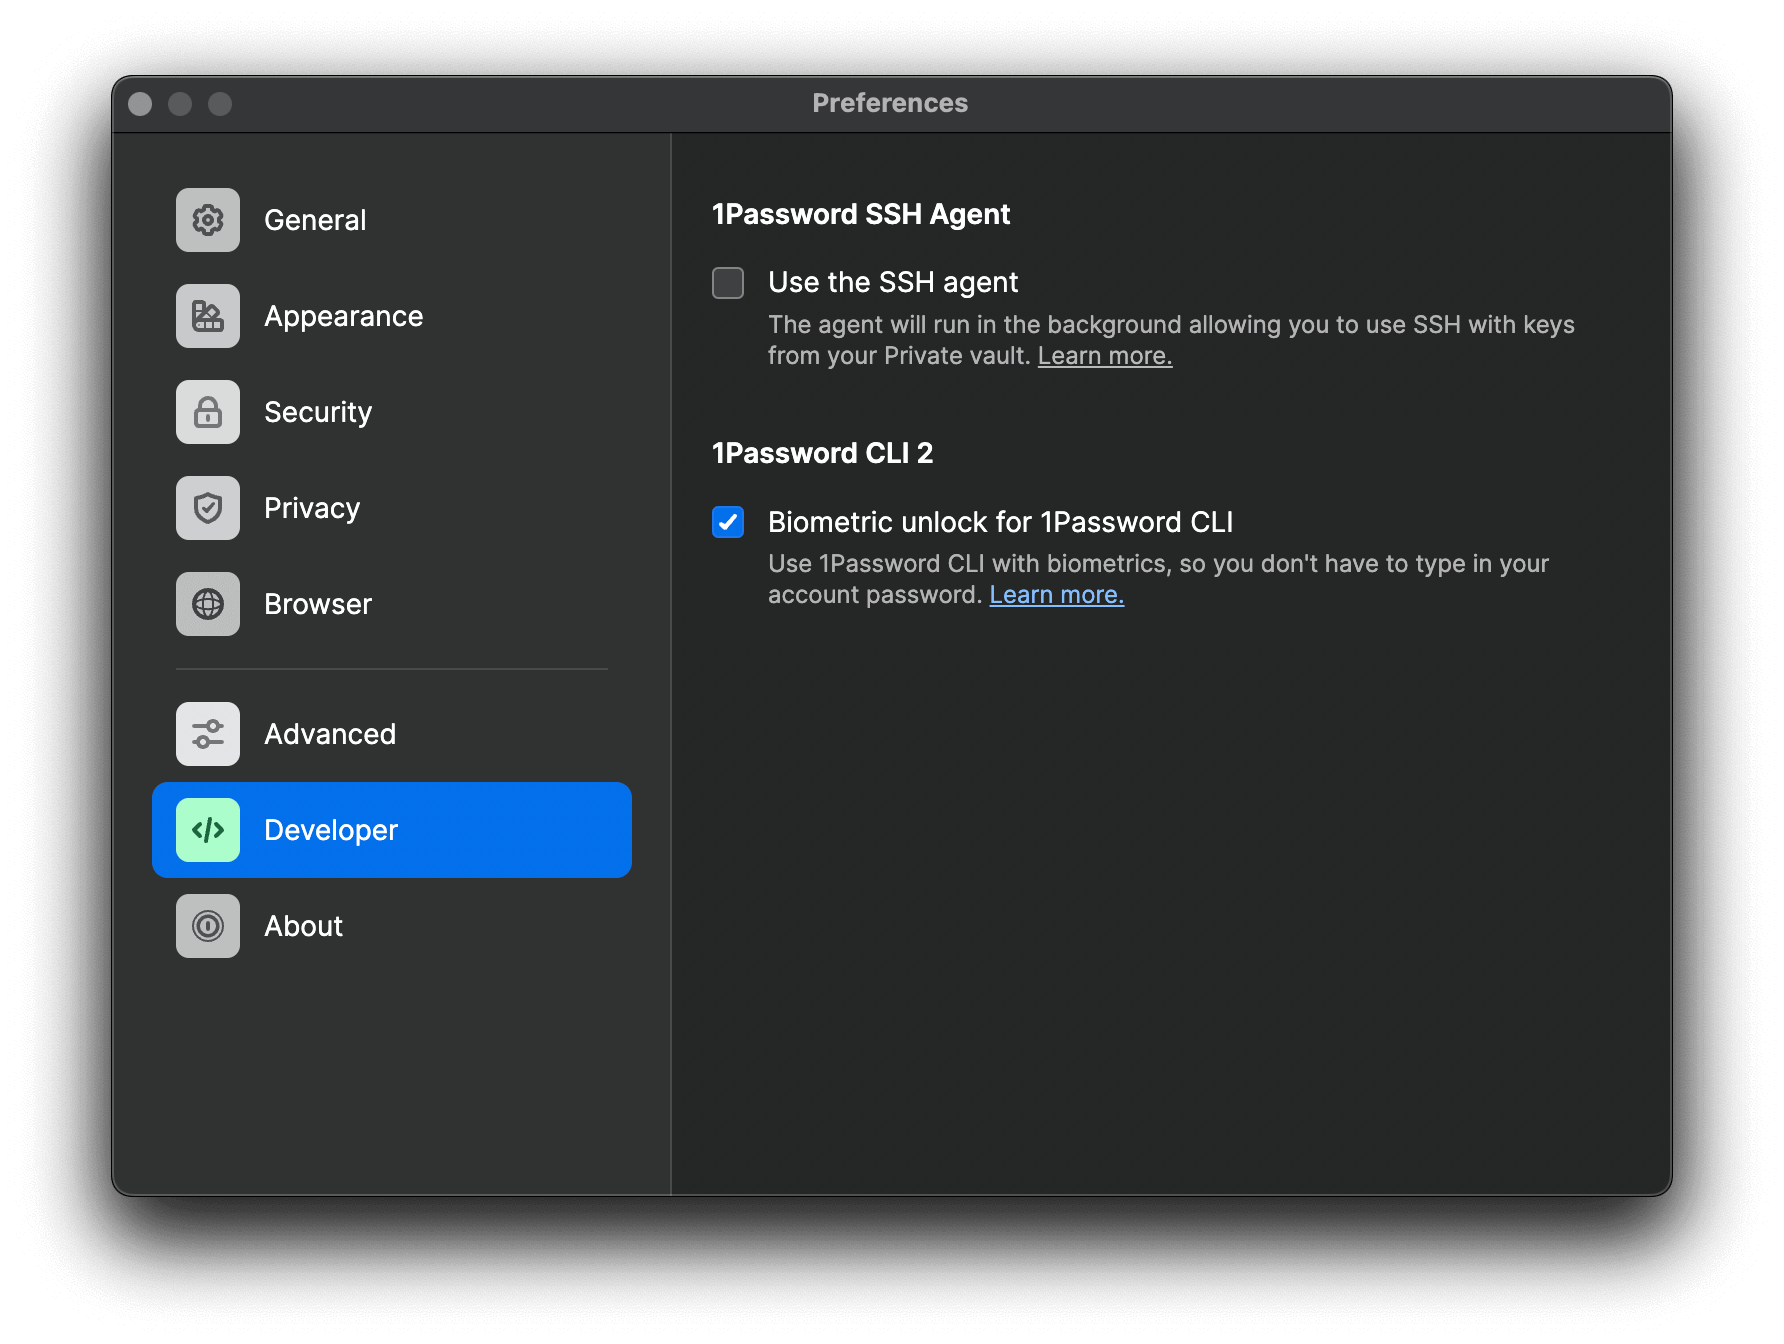
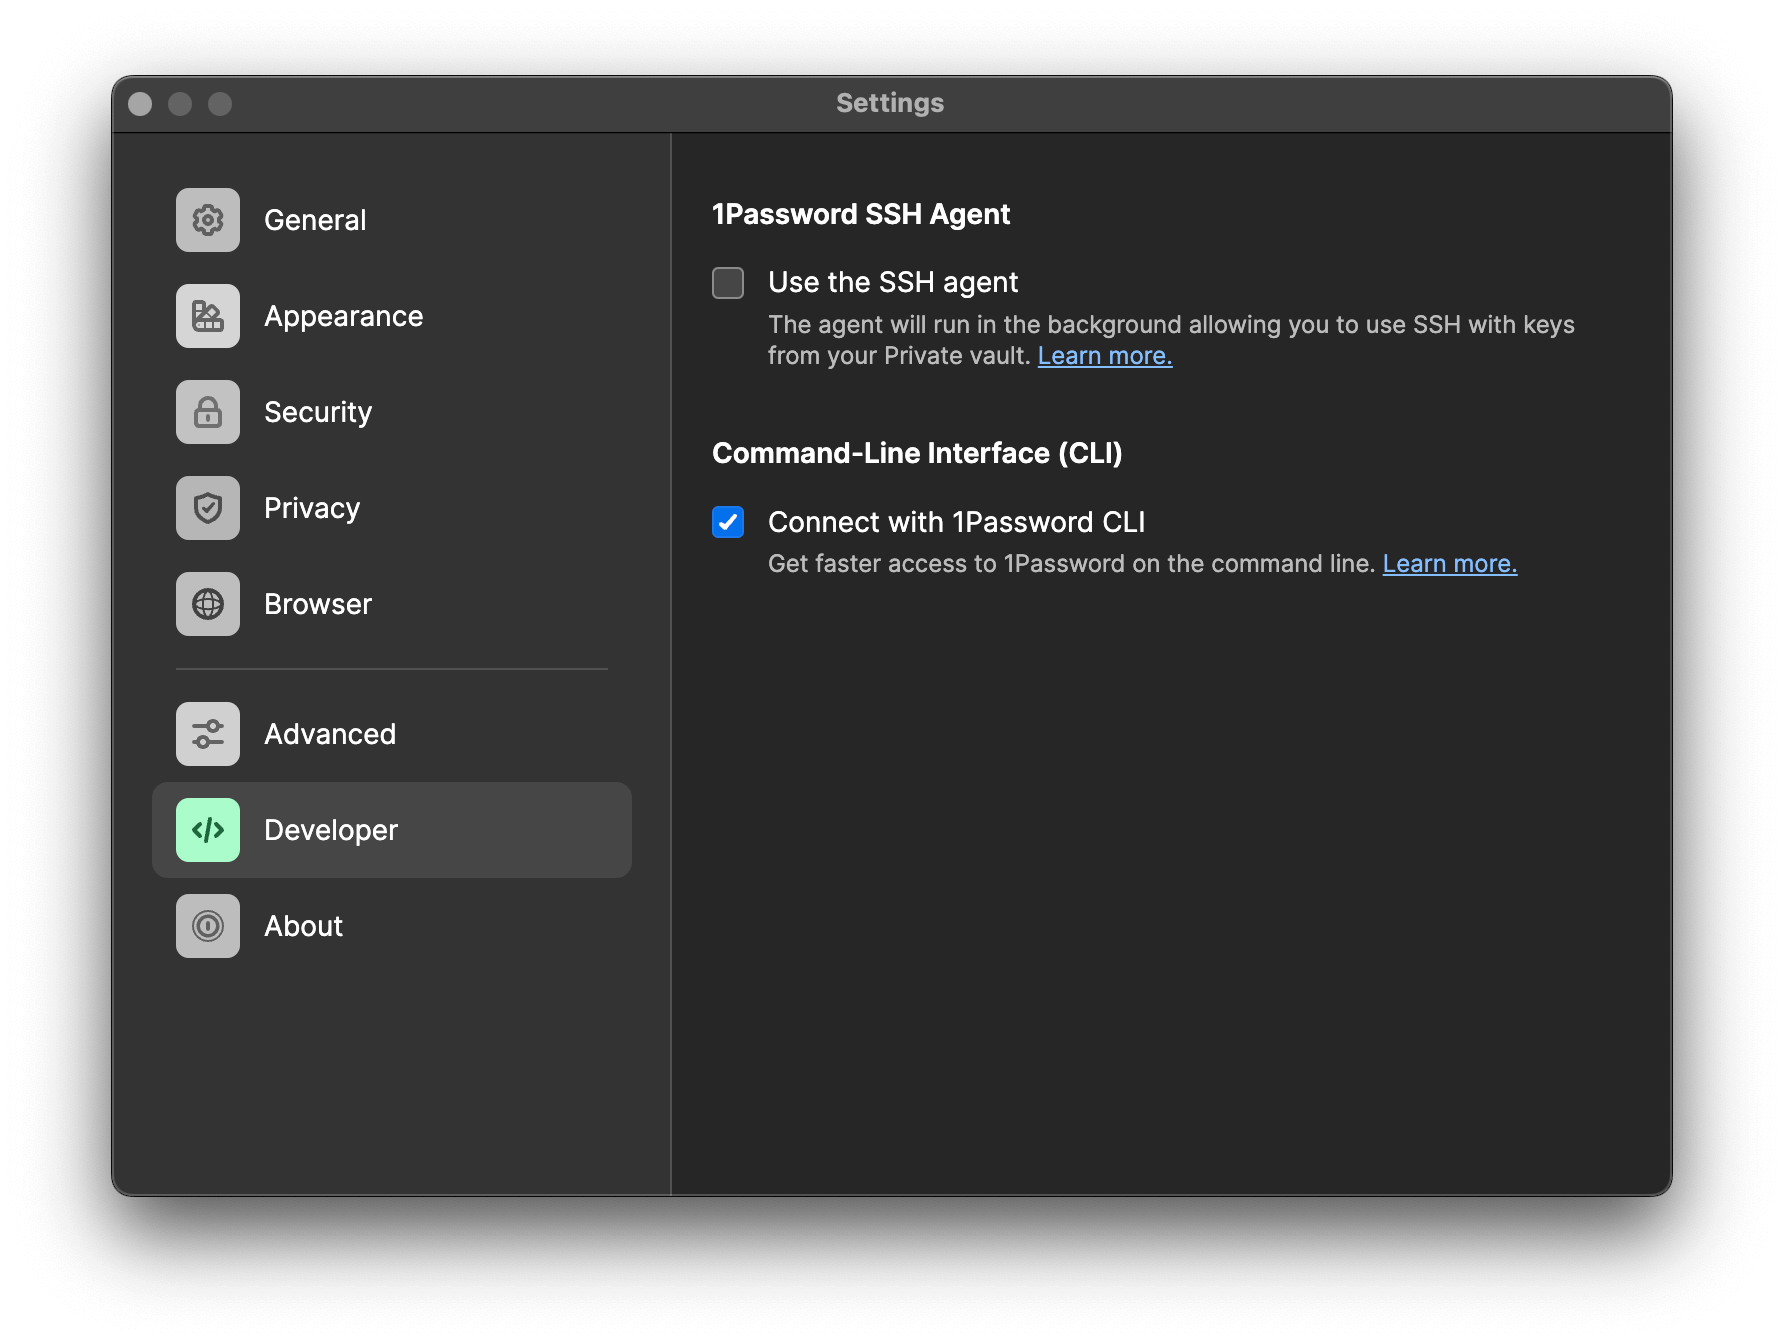
Remove OneUpdater

diff --git a/Workflow/1password.js b/Workflow/1password.js
@@ -105,27 +105,47 @@ function getItems(userID, excludedVaults) {
     .find(account => account["user_uuid"] === userID)
   const accountURL = envVar("hostnames_only") === "1" ? getHostname(account["url"]) : account["url"]
 
-  return runOP("item", "list", "--account", userID).map(item => {
+  return runOP("item", "list", "--account", userID).flatMap(item => {
     const vaultID = item["vault"]["id"]
 
+    // Return early due to user configuration
     if (excludedVaults.includes(vaultID)) return
     if (envVar("logins_only") === "1" && item["category"] !== "LOGIN") return
 
     const vaultName = vaults.find(vault => vault["id"] === vaultID)["name"]
-    const url = withScheme(item["urls"]?.[0]["href"])
-    const displayURL = envVar("hostnames_only") === "1" ? getHostname(url) : url
+    const urlObjects = item["urls"]
 
-    return {
-      uid: item["id"],
-      title: item["title"],
-      subtitle: url ? `${displayURL} 𐄁 ${vaultName} 𐄁 ${accountURL}` : `${vaultName} 𐄁 ${accountURL}`,
-      variables: {
-        accountID: account["account_uuid"],
-        vaultID: vaultID,
-        itemID: item["id"],
-        url: url
+    // Format when no URLs
+    if (urlObjects === undefined) {
+      return {
+        uid: item["id"],
+        title: item["title"],
+        subtitle: `${vaultName} 𐄁 ${accountURL}`,
+        variables: {
+          accountID: account["account_uuid"],
+          vaultID: vaultID,
+          itemID: item["id"],
+        }
       }
     }
+
+    // Array with one entry per URL
+    return urlObjects.map(urlObject => {
+      const url = withScheme(urlObject["href"])
+      const displayURL = envVar("hostnames_only") === "1" ? getHostname(url) : url
+
+      return {
+        uid: item["id"],
+        title: item["title"],
+        subtitle: `${displayURL} 𐄁 ${vaultName} 𐄁 ${accountURL}`,
+        variables: {
+          accountID: account["account_uuid"],
+          vaultID: vaultID,
+          itemID: item["id"],
+          url: url
+        }
+      }
+    })
   }).filter(item => item !== undefined) // Remove skipped items (excluded vaults or non-logins)
 }
 

diff --git a/README.md b/README.md
@@ -2,19 +2,17 @@
 
 Search and open 1Password items
 
-<a href='https://github.com/alfredapp/1password-workflow/releases/latest/download/1Password.alfredworkflow'>⤓ Download Workflow</a>
-
-> On Alfred 4 use <a href='https://github.com/alfredapp/1password-workflow/releases/download/2022.13/1Password.alfredworkflow'>alternative link</a>
+<a href='https://alfred.app/workflows/alfredapp/1password'>⤓ Install on the Alfred Gallery</a>
 
 ## Setup
 
-[Install the 1Password CLI](https://1password.com/downloads/command-line/) and turn on “Biometric Unlock for 1Password CLI” under the Developer tab of the 1Password preferences. Do this even if your Mac does not support Touch ID.
+[Install the 1Password CLI](https://1password.com/downloads/command-line/) and turn on the integration in 1Password Preferences → Developer → Connect with 1Password CLI.
 
 ![1Password preferences](Workflow/images/about/1password_preferences.png)
 
 ## Usage
 
-Run the Search Keyword (default: `1p`) to interact with your 1Password items. Set the actions for each <kbd>⏎</kbd> modifier in the User Configuration.
+Interact with your 1Password items via the Search Keyword (default: `1p`). Set the actions for each <kbd>⏎</kbd> modifier in the [Workflow’s Configuration](https://www.alfredapp.com/help/workflows/user-configuration/).
 
 ![Alfred search for 1p](Workflow/images/about/1p.png)
 
